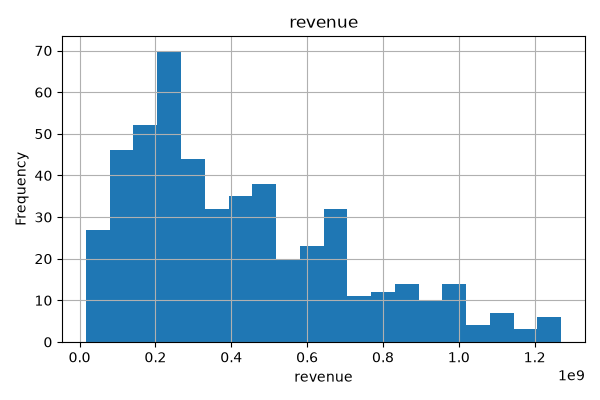
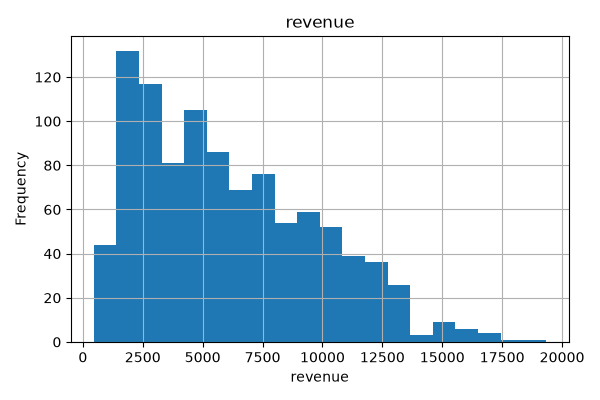
added updated charts

diff --git a/frontend/src/components/Charts.css b/frontend/src/components/Charts.css
@@ -1,0 +1,70 @@
+.charts-container{
+    margin-top:45px;
+}
+
+.charts-title{
+    text-align:center;
+    font-size:30px;
+    margin-bottom:30px;
+    color:#1f2937;
+}
+
+.charts-grid{
+
+    display:grid;
+
+    grid-template-columns:repeat(auto-fit,minmax(400px,1fr));
+
+    gap:25px;
+
+}
+
+.chart-card{
+
+    background:white;
+
+    border-radius:15px;
+
+    padding:20px;
+
+    box-shadow:0 8px 18px rgba(0,0,0,.08);
+
+    transition:.3s;
+
+}
+
+.chart-card:hover{
+
+    transform:translateY(-6px);
+
+    box-shadow:0 15px 30px rgba(0,0,0,.12);
+
+}
+
+.chart-card h3{
+
+    text-align:center;
+
+    margin-bottom:20px;
+
+    color:#374151;
+
+}
+
+.chart-image{
+
+    width:100%;
+
+    border-radius:10px;
+
+}
+
+@media(max-width:768px){
+
+.charts-grid{
+
+grid-template-columns:1fr;
+
+}
+
+}

diff --git a/frontend/src/components/Insights.css b/frontend/src/components/Insights.css
@@ -1,0 +1,58 @@
+.insights-container{
+    margin-top:40px;
+}
+
+.insights-title{
+    font-size:30px;
+    color:#1f2937;
+    margin-bottom:25px;
+    text-align:center;
+}
+
+.insights-grid{
+    display:grid;
+    grid-template-columns:repeat(auto-fit,minmax(320px,1fr));
+    gap:20px;
+}
+
+.insight-card{
+    display:flex;
+    align-items:flex-start;
+    gap:15px;
+
+    background:white;
+
+    padding:20px;
+
+    border-left:6px solid #2563eb;
+
+    border-radius:12px;
+
+    box-shadow:0 5px 12px rgba(0,0,0,.08);
+
+    transition:.3s;
+}
+
+.insight-card:hover{
+    transform:translateY(-4px);
+    box-shadow:0 10px 20px rgba(0,0,0,.12);
+}
+
+.insight-icon{
+    font-size:26px;
+}
+
+.insight-card p{
+    margin:0;
+    color:#374151;
+    line-height:1.6;
+    font-size:15px;
+}
+
+@media(max-width:768px){
+
+.insights-grid{
+grid-template-columns:1fr;
+}
+
+}

diff --git a/frontend/src/components/Charts.jsx b/frontend/src/components/Charts.jsx
@@ -1,40 +1,40 @@
+import "./Charts.css";
+
 function Charts({ charts }) {
   if (!charts || charts.length === 0) return null;
 
   return (
-    <div style={{ marginTop: "40px" }}>
-      <h2>Generated Charts</h2>
+    <div className="charts-container">
 
-      <div
-        style={{
-          display: "grid",
-          gridTemplateColumns: "repeat(auto-fit, minmax(300px,1fr))",
-          gap: "20px",
-        }}
-      >
+      <h2 className="charts-title">
+        📈 Generated Charts
+      </h2>
+
+      <div className="charts-grid">
+
         {charts.map((chart, index) => (
-          <div
-            key={index}
-            style={{
-              border: "1px solid #ddd",
-              borderRadius: "10px",
-              padding: "15px",
-              textAlign: "center",
-            }}
-          >
-            <h4>{chart}</h4>
+
+          <div className="chart-card" key={index}>
+
+            <h3>
+              {chart
+                .replace(".png", "")
+                .replaceAll("_", " ")
+                .replace(/\b\w/g, (c) => c.toUpperCase())}
+            </h3>
 
             <img
               src={`http://127.0.0.1:8000/reports/${chart}`}
               alt={chart}
-              style={{
-                width: "100%",
-                borderRadius: "8px",
-              }}
+              className="chart-image"
             />
+
           </div>
+
         ))}
+
       </div>
+
     </div>
   );
 }

diff --git a/frontend/src/components/Insights.jsx b/frontend/src/components/Insights.jsx
@@ -1,33 +1,27 @@
+import "./Insights.css";
+
 function Insights({ insights }) {
-  if (!insights || insights.length === 0) {
-    return null;
-  }
+  if (!insights || insights.length === 0) return null;
 
   return (
-    <div
-      style={{
-        background: "#ffffff",
-        padding: "20px",
-        borderRadius: "10px",
-        boxShadow: "0 2px 8px rgba(0,0,0,0.1)",
-        marginBottom: "30px",
-      }}
-    >
-      <h2>Business Insights</h2>
+    <div className="insights-container">
 
-      <ul>
-        {insights.map((insight, index) => (
-          <li
-            key={index}
-            style={{
-              marginBottom: "10px",
-              fontSize: "16px",
-            }}
-          >
-            {insight}
-          </li>
+      <h2 className="insights-title">
+        💡 Business Insights
+      </h2>
+
+      <div className="insights-grid">
+
+        {insights.map((item, index) => (
+          <div className="insight-card" key={index}>
+            <span className="insight-icon">💡</span>
+
+            <p>{item}</p>
+          </div>
         ))}
-      </ul>
+
+      </div>
+
     </div>
   );
 }